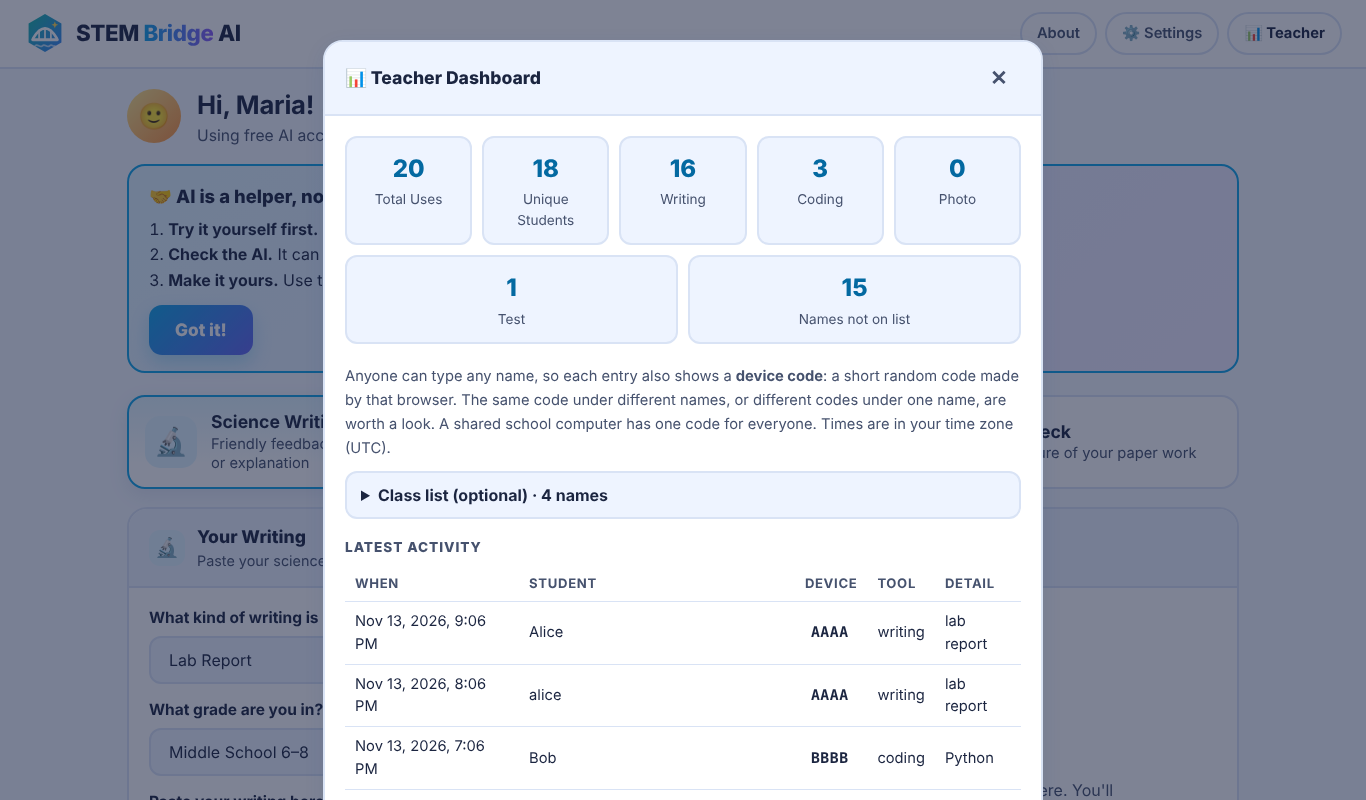
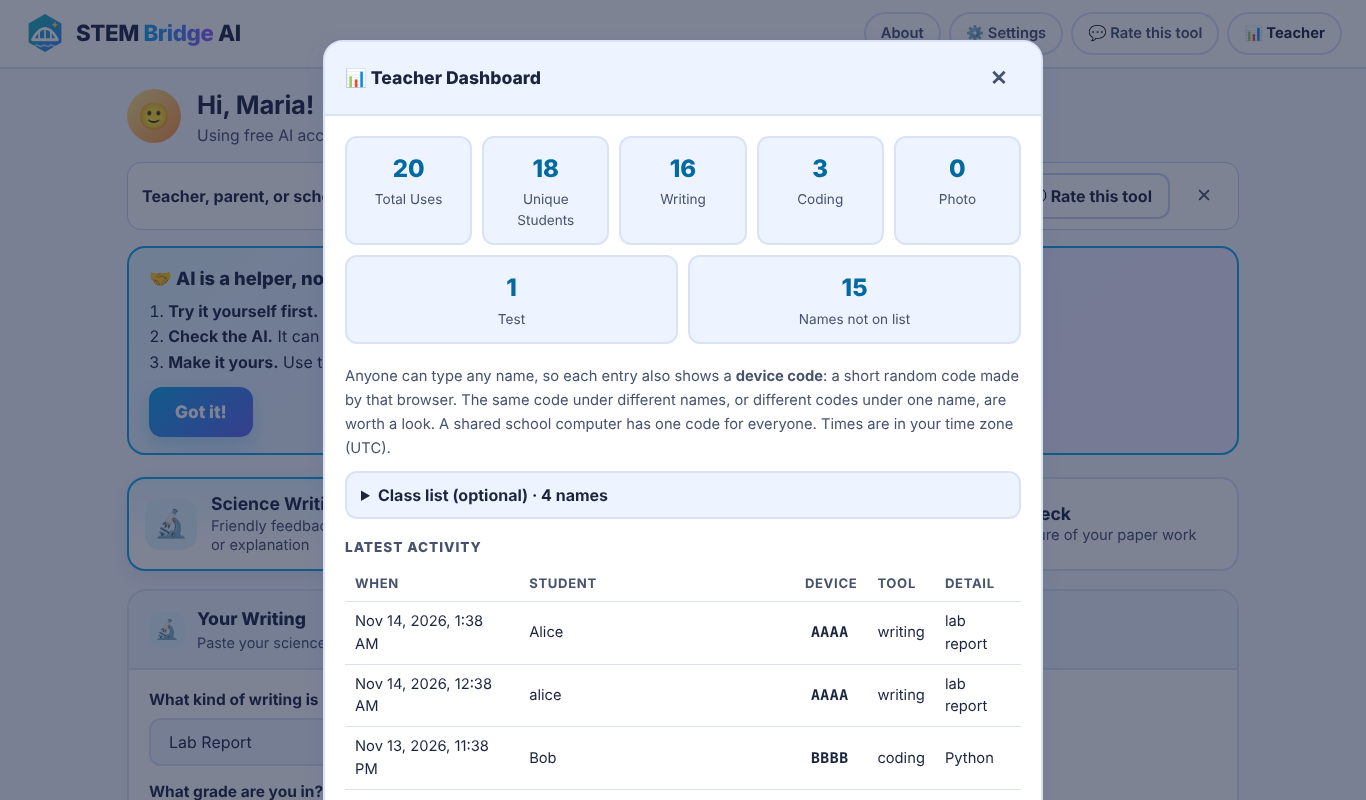
Add See a sample result and make Rate this tool easier to find (v0.14.0) (#36)
- Sample result for Science Writing and Coding Helper: shown without calling the AI, clearly marked, nothing sent, logged or saved; also offered when the AI is busy
- Rate this tool: top-bar button and a dismissible strip under the greeting
- Greeting no longer shows a stray comma when no name is set

Claude-Session: https://claude.ai/code/session_01GYHNJzPqXdtb1paznjZdWS

diff --git a/index.html b/index.html
@@ -84,6 +84,13 @@
     .hello-main{min-width:0;flex:1;}
     .hello h1{font-size:1.6rem;letter-spacing:-.01em;line-height:1.25;}
     .hello-sub{color:var(--mut);margin-top:3px;font-size:.98rem;}
+    .rate-strip{align-items:center;gap:10px 14px;flex-wrap:wrap;margin-top:14px;padding:10px 14px;border:1px solid var(--border2);border-radius:14px;background:var(--surf);}
+    .rate-strip:not([hidden]){display:flex;}
+    .rate-strip p{flex:1;min-width:14ch;line-height:1.45;}
+    .rate-strip .x{background:none;border:0;color:var(--mut);font:inherit;font-size:1.2rem;min-width:40px;min-height:40px;cursor:pointer;border-radius:10px;}
+    .sample-note{border-left:6px solid var(--a1);background:var(--tip-bg);border-radius:0 12px 12px 0;padding:10px 14px;margin:0 0 12px;line-height:1.5;display:flex;gap:10px 14px;flex-wrap:wrap;align-items:center;}
+    .sample-note span{flex:1;min-width:18ch;}
+    .sample-btn{max-width:320px;}
     .name-row{display:flex;gap:10px;align-items:center;flex-wrap:wrap;margin:10px 0 4px;}
     .name-row input{
       flex:1 1 240px;max-width:380px;min-height:48px;padding:10px 14px;border-radius:12px;
@@ -481,6 +488,7 @@
   <nav class="topnav" aria-label="Main">
     <button class="chip dim" type="button" onclick="openAbout()">About</button>
     <button class="chip dim" type="button" onclick="openSettings()">⚙ Settings</button>
+    <button class="chip dim" type="button" onclick="openFeedback()">💬 Rate this tool</button>
     <button class="chip" type="button" onclick="openDashboard()">📊 Teacher</button>
   </nav>
 </header>
@@ -507,6 +515,11 @@
       <h1>Hi, <span id="helloName"></span>! 👋 What would you like help with?</h1>
       <p class="hello-sub"><span id="helloMode"></span> · <a href="#" onclick="event.preventDefault(); resetStudentName();">Not you?</a></p>
     </div>
+  </div>
+  <div class="rate-strip" id="rateStrip" hidden>
+    <p><b>Teacher, parent, or school leader?</b> Tell us what you think of this tool. It takes about a minute.</p>
+    <button type="button" class="apikey-btn" onclick="openFeedback()">💬 Rate this tool</button>
+    <button type="button" class="x" aria-label="Hide this message" onclick="hideRateStrip()">✕</button>
   </div>
 </section>
 
@@ -762,6 +775,7 @@
       <div class="empty-state">
         <div class="empty-icon">🌟</div>
         <p>Your feedback will show up here. You'll see what's working and one next step.</p>
+        <button type="button" class="btn-ghost sample-btn" onclick="showSampleResult()">👀 See a sample result</button>
       </div>
     </div>
   </div>
@@ -770,7 +784,7 @@
 
 <!-- ═══════════════════════════════ FOOTER ══ -->
 <footer class="mission">
-  <span>Free and open source · MIT License · v0.13.2</span>
+  <span>Free and open source · MIT License · v0.14.0</span>
   <button type="button" onclick="openAbout()">About</button>
   <a href="https://github.com/dastanramazan/STEM-Bridge-AI/blob/main/PRIVACY.md" target="_blank" rel="noopener noreferrer">Privacy</a>
   <a href="https://github.com/dastanramazan/STEM-Bridge-AI" target="_blank" rel="noopener noreferrer">GitHub</a>
@@ -886,7 +900,7 @@
       </ul>
       <p><b>Why we built it:</b> every student benefits from quick, personalized feedback, but it is hard for one teacher to give it to everyone. This tool is designed to help teachers offer it, especially in schools with limited resources.</p>
       <p><button type="button" class="apikey-btn" onclick="openFeedback()">💬 Rate this tool (about a minute)</button></p>
-      <p>Version 0.13.2 · MIT License · <a href="https://github.com/dastanramazan/STEM-Bridge-AI" target="_blank" rel="noopener noreferrer">Source code</a> · <a href="https://github.com/dastanramazan/STEM-Bridge-AI/blob/main/PRIVACY.md" target="_blank" rel="noopener noreferrer">Privacy</a></p>
+      <p>Version 0.14.0 · MIT License · <a href="https://github.com/dastanramazan/STEM-Bridge-AI" target="_blank" rel="noopener noreferrer">Source code</a> · <a href="https://github.com/dastanramazan/STEM-Bridge-AI/blob/main/PRIVACY.md" target="_blank" rel="noopener noreferrer">Privacy</a></p>
     </div>
   </div>
 </div>
@@ -1462,6 +1476,7 @@
       }, 20000);
       if (data && data.ok === true && data.feedback === true) {
         safeSet('local', FEEDBACK_SENT_STORAGE, String(Date.now()));
+        document.getElementById('rateStrip').hidden = true;
         document.getElementById('feedbackBody').innerHTML = '<p style="font-size:1.1rem;"><b>Thank you! 💙</b></p><p>Your answers were sent to the STEM Bridge AI team. They help us decide what to improve next.</p><button type="button" class="apikey-btn" onclick="closeFeedback()">Close</button>';
         return;
       }
@@ -2046,7 +2061,77 @@
       <div class="empty-state">
         <div class="empty-icon">${v.emptyIcon}</div>
         <p>${v.emptyText}</p>
+        ${m === 'photo' ? '' : SAMPLE_BTN_HTML}
       </div>`;
+  }
+
+  /* ── Sample result: shows what feedback looks like without calling the AI.
+     Nothing is sent, logged, or saved as a "last attempt". ── */
+  const SAMPLE_BTN_HTML = '<button type="button" class="btn-ghost sample-btn" onclick="showSampleResult()">👀 See a sample result</button>';
+  let showingSample = false;
+  const SAMPLE_WRITING = {
+    scores: [
+      { dimension: 'Scientific Accuracy', score: 82 }, { dimension: 'Evidence Use', score: 88 },
+      { dimension: 'Clarity', score: 80 }, { dimension: 'Structure', score: 68 }, { dimension: 'Reasoning', score: 76 }
+    ],
+    overallSummary: 'You ran a fair test and reported exact times for all three temperatures, which makes your result easy to trust. Your explanation about faster-moving water molecules is on the right track.',
+    strengths: [
+      'You changed only one thing (the water temperature) and kept the sugar amount and stirring the same.',
+      'You gave real measurements: 45 seconds, 2 minutes 10 seconds, and 4 minutes 30 seconds.',
+      'You connected the result to a cause: heat makes the molecules move faster.'
+    ],
+    improvements: [
+      'The last paragraph mixes your reasoning with ideas for next time.',
+      'You ran each temperature once, so one unusual trial could change the result.',
+      'The report does not state your prediction before the results.'
+    ],
+    suggestions: [
+      'Try splitting your final paragraph into two parts: one for your scientific reasoning and one for what you would change next time.',
+      'Think about how repeating each temperature a few times would make your evidence stronger, and say so.',
+      'Add one sentence near the start that says what you expected to happen and why.'
+    ],
+    checkYourself: ['Look up "dissolving" and "particle motion" in your notes or textbook and check that your explanation matches.']
+  };
+  const SAMPLE_CODING = {
+    quality: 78, correctness: 60, gradeReadiness: 85,
+    explanation: 'Your loop works, and it does exactly what range(10) asks for. Look closely at where range starts counting and where it stops. What is the first number it gives you, and is the last number you wanted included?',
+    whatIsGood: ['Your loop is short and easy to read.', 'You described clearly what you expected and what happened instead.'],
+    issues: ['range can take two numbers: where to start and where to stop. Which two would give you 1 through 10?', 'Remember that the stop number itself is not printed.'],
+    correctedCode: 'for i in range(1, 11):\n    print(i)',
+    nextStep: ['Try range with two numbers and predict the output before you run it.', 'Try a third number, like range(0, 10, 2), and see what changes.', 'Explain to a partner why range(1, 11) prints 10 but not 11.'],
+    checkYourself: ['Run your new loop and count the lines it prints. Is the first one 1 and the last one 10?']
+  };
+
+  function showSampleResult() {
+    const coding = currentMode === 'coding';
+    // Put the example work in the box if it is empty, so the feedback has something to point at.
+    const box = document.getElementById(coding ? 'codingText' : 'writingText');
+    if (!box.value.trim()) {
+      if (coding) loadCodingSample();
+      else { if (document.getElementById('gradeW').value === 'K-1') { document.getElementById('gradeW').value = '6-8'; onGradeWChange(); } loadWritingSample(); }
+    }
+    stopReadAloud();
+    showingSample = true;
+    try {
+      if (coding) renderCodingFeedback(JSON.parse(JSON.stringify(SAMPLE_CODING)));
+      else renderWritingFeedback(JSON.parse(JSON.stringify(SAMPLE_WRITING)));
+    } finally { showingSample = false; }
+    lastFeedback = null; // a sample is not the student's work, so there is nothing to save as Word
+    const out = document.getElementById('output-body');
+    const save = out.querySelector('.res-save'); if (save) save.remove();
+    out.insertAdjacentHTML('afterbegin', `<div class="sample-note" role="note"><span>👀 <b>This is a sample.</b> It was written in advance for our example ${coding ? 'question' : 'lab report'} to show what feedback looks like. It did not use the AI, and nothing was sent or saved.</span><button type="button" class="apikey-btn" onclick="setMode(currentMode)">Close sample</button></div>`);
+    if (window.matchMedia && window.matchMedia('(max-width:900px)').matches) document.getElementById('output-panel').scrollIntoView({ block: 'start' });
+  }
+
+  /* ── "Rate this tool" strip under the greeting (for adults; hidden once dismissed or after sending). ── */
+  const RATE_STRIP_STORAGE = 'stemBridgeRateStripHidden';
+  function initRateStrip() {
+    const sentAt = Number(safeGet('local', FEEDBACK_SENT_STORAGE) || 0);
+    document.getElementById('rateStrip').hidden = !!safeGet('local', RATE_STRIP_STORAGE) || !!sentAt;
+  }
+  function hideRateStrip() {
+    safeSet('local', RATE_STRIP_STORAGE, '1');
+    document.getElementById('rateStrip').hidden = true;
   }
 
   function setLang(el, lang) {
@@ -2717,10 +2802,11 @@ Also give "checkYourself": one or two specific facts, claims, or steps (in the s
   }
 
   function cheerFor(avg, name) {
-    if (avg >= 85) return ['🎉', `Awesome work, ${name}!`];
-    if (avg >= 70) return ['🌟', `Nice work, ${name}!`];
-    if (avg >= 55) return ['💪', `Good start, ${name}!`];
-    return ['🌱', `Keep going, ${name}!`];
+    name = name ? `, ${name}` : ''; // no name yet (a visitor looking at the sample)
+    if (avg >= 85) return ['🎉', `Awesome work${name}!`];
+    if (avg >= 70) return ['🌟', `Nice work${name}!`];
+    if (avg >= 55) return ['💪', `Good start${name}!`];
+    return ['🌱', `Keep going${name}!`];
   }
 
   const SHOW_SCORES_TOGGLE = `<label class="toggle"><input type="checkbox" onchange="document.getElementById('resWrap').classList.toggle('show-nums', this.checked)"> Show scores</label>`;
@@ -2762,9 +2848,9 @@ Also give "checkYourself": one or two specific facts, claims, or steps (in the s
     setSpeechContent(speechParts.join('. '), grade === 'K-1' || grade === '2' || grade === '3-5');
 
     const currentScoreList = d.scores.map(s => ({ label: s.dimension, score: safeScore(s.score) }));
-    const prevAttempt = getPrevAttempt('writing', `${atype}::${grade}`);
+    const prevAttempt = showingSample ? null : getPrevAttempt('writing', `${atype}::${grade}`);
     const progressHtml = prevAttempt ? renderProgressPanel(buildComparisonRows(prevAttempt.scores, currentScoreList)) : '';
-    savePrevAttempt('writing', `${atype}::${grade}`, currentScoreList);
+    if (!showingSample) savePrevAttempt('writing', `${atype}::${grade}`, currentScoreList);
 
     lastFeedback = writingFeedbackModel(d, getStudentName(), 'Science Writing',
       [['Assignment', selText('assignType')], ['Grade', selText('gradeW')]],
@@ -2873,9 +2959,9 @@ Return ONLY valid JSON (no markdown, no preamble):
       correctness > 0 ? { label: 'Correctness', score: correctness } : null,
       { label: 'Grade Readiness', score: gradeReadiness }
     ].filter(Boolean);
-    const prevAttempt = getPrevAttempt('coding', matchDetail);
+    const prevAttempt = showingSample ? null : getPrevAttempt('coding', matchDetail);
     const progressHtml = prevAttempt ? renderProgressPanel(buildComparisonRows(prevAttempt.scores, currentScoreList)) : '';
-    savePrevAttempt('coding', matchDetail, currentScoreList);
+    if (!showingSample) savePrevAttempt('coding', matchDetail, currentScoreList);
 
     lastFeedback = codingFeedbackModel(d, getStudentName());
     document.getElementById('output-body').innerHTML = `
@@ -4074,7 +4160,7 @@ Return ONLY valid JSON (no markdown, no preamble):
     const fix = arg && arg.code === 'OWN_KEY'
       ? '<button type="button" class="btn-main writing-btn err-fix" onclick="useFreeAccessAndRetry()">Use free access instead</button>'
       : arg && arg.code === 'RETRY'
-        ? '<button type="button" class="btn-main writing-btn err-fix" onclick="retryCurrent()">Try again</button>'
+        ? '<button type="button" class="btn-main writing-btn err-fix" onclick="retryCurrent()">Try again</button>' + (currentMode === 'photo' ? '' : SAMPLE_BTN_HTML)
         : '';
     document.getElementById('output-body').innerHTML = `
       <div class="empty-state">
@@ -4118,6 +4204,7 @@ Return ONLY valid JSON (no markdown, no preamble):
   initPhotoMode();
   updateSetupUI();
   initTheme();
+  initRateStrip();
   handleSchoolLink();
 </script>
 </body>

diff --git a/CHANGELOG.md b/CHANGELOG.md
@@ -10,6 +10,12 @@ All notable changes are documented here. This file serves as the official develo
 
 - **Removed the "48 states" teacher-shortage statistic** from README.md and research.md (the problem statement now rests on the computing-jobs, Code.org, and NSF figures, each cited) and dropped its reference.
 
+## [0.14.0] — 2026-11 — See a Sample, and an Easier Way to Rate the Tool
+
+- **"See a sample result."** A button in the empty feedback box (Science Writing and Coding Helper) shows what feedback looks like for the built-in example, without calling the AI. It is clearly marked as a sample written in advance; nothing is sent, logged, or saved, and there is no Word button for it. It works before a name is typed, and it is also offered when the AI service is busy, so a first-time visitor can always see what the tool does.
+- **"Rate this tool" is easier to find.** A button in the top bar and a short strip under the greeting invite teachers, parents, and school leaders to give feedback. The strip can be hidden and stays hidden; it also disappears after feedback is sent.
+- The greeting above a result no longer shows a stray comma when no name has been typed.
+
 ## [0.13.2] — 2026-11 — Sturdier When Google's AI Is Busy
 
 - **Three models, longer retries.** When Gemini is overloaded, the school script now tries the main model, then the lighter fallback, then a third model (two attempts each), and keeps retrying for up to 30 seconds instead of 20. A model name Google no longer serves is skipped instead of ending the request.

diff --git a/README.md b/README.md
@@ -2,12 +2,12 @@
 
 [![Live Demo](https://img.shields.io/badge/Live%20Demo-Active-brightgreen)](https://dastanramazan.github.io/STEM-Bridge-AI/)
 [![License: MIT](https://img.shields.io/badge/License-MIT-blue.svg)](LICENSE)
-[![Version](https://img.shields.io/badge/Version-0.13.2-cyan)](CHANGELOG.md)
+[![Version](https://img.shields.io/badge/Version-0.14.0-cyan)](CHANGELOG.md)
 [![Open Source](https://img.shields.io/badge/Open%20Source-Free%20for%20Schools-orange)](LICENSE)
 
 > **A free, open-source AI tool designed to give K–12 students feedback on science writing, code, and handwritten work. Built for schools with limited resources: students need only a web browser, and a school needs only a Google account to run its own copy.**
 
-**Status (v0.13.2):** working and publicly deployed. It has been built and tested by its developer, but it has not yet had a classroom pilot, so there is no data yet on learning outcomes. See the [Roadmap](#-roadmap) for what comes next and [PRIVACY.md](PRIVACY.md) for how student data is handled.
+**Status (v0.14.0):** working and publicly deployed. It has been built and tested by its developer, but it has not yet had a classroom pilot, so there is no data yet on learning outcomes. See the [Roadmap](#-roadmap) for what comes next and [PRIVACY.md](PRIVACY.md) for how student data is handled.
 
 ---
 
